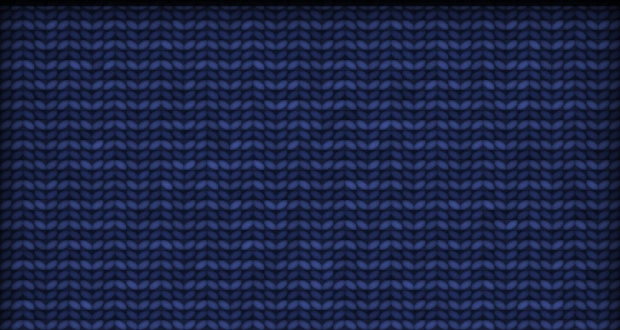
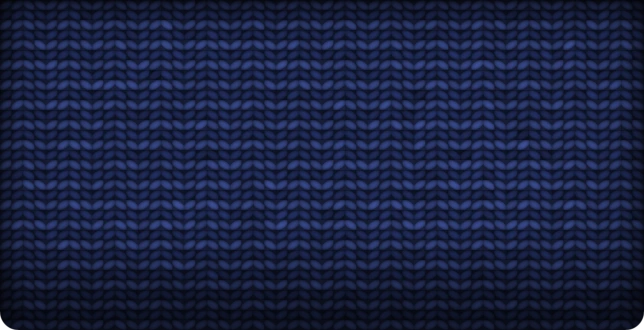
Second Chair: the band runs into a curved slot between the lugs; its free end rounded and fading
The lugs are now two posts with a straight slot floor between them, curving up
into each post; the band sits behind the case and disappears into the slot.

diff --git a/second-chair/assets/css/base.css b/second-chair/assets/css/base.css
@@ -355,12 +355,11 @@ ul, ol { margin: 0; padding: 0; }
 
 /* ---- Apple Watch Ultra 4: rendered case, band, watchOS Now Playing ---- */
 .watch { container-type: inline-size; position: relative; isolation: isolate; width: 100%; }
-/* The band: Alpine Loop in navy (_docs/devices/band.py), 27 mm wide between the case's horns. It runs down to the
-   case's rim (5.4 mm into the case frame, 11.51cqw) in front of the case, so the horns show either side of it; its
-   free end is cut straight across, as in Apple's product shots. */
-.watch-band { position: relative; z-index: 2; width: 57.6%; height: 30cqw; margin: 0 auto; background: center / 100% 100% no-repeat; }
-.watch-band--top { margin-bottom: -11.51cqw; background-image: url("../img/devices/watch-band-top.webp"); }
-.watch-band--bottom { margin-top: -11.51cqw; background-image: url("../img/devices/watch-band-bottom.webp"); }
+/* The band: Alpine Loop in navy (_docs/devices/band.py), 28 mm wide. It sits behind the case and runs into the slot
+   between the lugs' posts (whose floor is 3.65 mm into the case frame), ending 0.4 mm past it (4.05 mm, 8.64cqw). */
+.watch-band { position: relative; z-index: 0; width: 59.7%; height: 30cqw; margin: 0 auto; background: center / 100% 100% no-repeat; }
+.watch-band--top { margin-bottom: -8.64cqw; background-image: url("../img/devices/watch-band-top.webp"); }
+.watch-band--bottom { margin-top: -8.64cqw; background-image: url("../img/devices/watch-band-bottom.webp"); }
 /* Apple Watch Ultra 4, 49 mm, natural titanium: a pre-rendered case (assets/img/devices) from Apple's published
    dimensions and its front-on product photo, with the live screen in its transparent display window
    (32.88 x 40.05 mm in a 46.9 x 57.84 mm frame that includes the crown and the band lugs). */

diff --git a/second-chair/assets/css/home.css b/second-chair/assets/css/home.css
@@ -232,7 +232,7 @@ html:not(.js) .try { display: none; }
   position: absolute; right: 0; top: 0; width: 53cqw;
 }
 /* On the phone's left: between the Mac and the iPhone. */
-.ctl-watch { position: absolute; left: 11cqw; top: 42.57cqw; width: 32.6cqw; z-index: 3; }   /* the display stays where it was before the band and lugs changed */
+.ctl-watch { position: absolute; left: 11cqw; top: 41.64cqw; width: 32.6cqw; z-index: 3; }   /* the display stays where it was before the band and lugs changed */
 
 .np-scrub, .vol-track { position: relative; }
 .vol-track { flex: 1; }

diff --git a/second-chair/_docs/devices/watch.py b/second-chair/_docs/devices/watch.py
@@ -23,10 +23,11 @@ P = dict(
     # crown 0.69 mm proud of the guard, side button 26.4-36.0 and only 0.41 mm proud of it
     guard=(11.1, 37.3, 1.35), crown=(13.7, 22.6, 2.05), button=(26.4, 36.0, 1.76), action=(21.9, 35.2),
     # band lugs (horns), measured from Apple's front-on Alpine Loop photo at ~17.2 px/mm (body 41.7 mm = 718 px):
-    # 31.6 mm across, rising 3.5 mm above the body's top and below its bottom, corners r 2.0, flowing into the
-    # body's shoulders through a ~2.4 mm concave fillet. The band (27 mm) runs between them into a slot 0.75 mm
-    # above the body line; that slot and the band are drawn in the page (base.css), not here.
-    lug_w=31.6, lug_h=3.5, lug_r=2.0, lug_fillet=2.4,
+    # 31.6 mm across, rising 3.5 mm above the body's top and below its bottom: two posts either side of a 27 mm
+    # slot for the band, whose floor is a straight bridge 0.75 mm above the body line; outer corners r 2.0, inner
+    # corners r 0.9. Each post flows into the body (and the slot's floor) through a concave
+    # fillet: 2.4 mm on the shoulder outside, 1.2 mm inside, where the case's edge curves up to meet the band.
+    lug_w=31.6, lug_h=3.5, lug_r=2.0, lug_r_in=0.9, slot_w=27.0, lug_fillet=2.4, slot_fillet=1.2, slot_floor=0.75,
 )
 ENV = dict(front=0.717, front_pow=0.318, soft=0.173, soft_el=0.537, soft_w=0.343, below=0.47, side=0.265, back=0.153, lip_tilt=0.078, roll_R=1.509, groove=0.067,
            f0=(0.84, 0.75, 0.665), polish=1.22, brush=0.05, roll_h=1.5)   # fitted to Apple's photo (fit.py)
@@ -61,11 +62,22 @@ def render(scale=7.388, ss=3, margin=6.0, screen=None, e=None, out=None, shadow=
     yt = Y + P['body_h']/2; right = P['body_w']/2
     body = superrect(X, Y, P['body_w'], P['body_h'], P['body_a'], P['body_n']) <= 0
     # lugs: one rounded block across the top and bottom, merged into the shoulders with a concave fillet
-    lugs = superrect(X, Y, P['lug_w'], P['body_h'] + 2*P['lug_h'], P['lug_r'], 2.0) <= 0
-    kf = max(3, int(2*P['lug_fillet']*S)) | 1
-    # padded first, so the frame's edge doesn't erode the lugs' tops
-    padded = cv2.copyMakeBorder((body | lugs).astype(np.uint8), kf, kf, kf, kf, cv2.BORDER_CONSTANT, value=0)
-    body = cv2.morphologyEx(padded, cv2.MORPH_CLOSE, cv2.getStructuringElement(cv2.MORPH_ELLIPSE, (kf, kf)))[kf:-kf, kf:-kf].astype(bool)
+    pw = (P['lug_w'] - P['slot_w']) / 2                          # each post's width
+    ph = P['body_h'] + 2*P['lug_h']
+    def post(sign):                                              # a post, rounded r_out outside and r_in inside
+        cx = sign * (P['slot_w'] + pw) / 2
+        qx = X - cx; outer = (qx * sign) > 0
+        r = np.where(outer, P['lug_r'], P['lug_r_in'])
+        return superrect(qx, Y, pw, ph, r, 2.0) <= 0
+    # the slot's floor: a straight bridge between the posts, 0.75 mm proud of the body line, where the band goes in
+    bridge = (np.abs(X) < P['lug_w']/2 - 0.5) & (np.abs(Y) < P['body_h']/2 + P['slot_floor'])
+    lugs = post(-1) | post(1) | bridge
+    def close(m, mm):                                            # concave fillets; padded so the frame's edge can't hold anything out
+        k = max(3, int(2*mm*S)) | 1
+        pm = cv2.copyMakeBorder(m.astype(np.uint8), k, k, k, k, cv2.BORDER_CONSTANT, value=0)
+        return cv2.morphologyEx(pm, cv2.MORPH_CLOSE, cv2.getStructuringElement(cv2.MORPH_ELLIPSE, (k, k)))[k:-k, k:-k].astype(bool)
+    inside_slot = np.abs(X) < P['slot_w'] / 2
+    body = np.where(inside_slot, close(body | lugs, P['slot_fillet']), close(body | lugs, P['lug_fillet']))
     glass = superrect(X, Y, P['glass_w'], P['glass_h'], P['glass_a'], P['glass_n']) <= 0
     def part(y0, y1, prot, r):
         cy = (y0+y1)/2 - P['body_h']/2

diff --git a/second-chair/_docs/devices/band.py b/second-chair/_docs/devices/band.py
@@ -4,15 +4,16 @@ Alpine Loop is a two-layer textile knit from two yarns: seen front-on it's fine 
 alternately left and right in narrow columns (a chevron, or herringbone, texture), the rows alternating between the
 two yarn colours so the band reads as a speckled, heathered single colour. No edge stitching (that's Trail Loop).
 
-Size and placement (watch.py, base.css): 27 mm wide, between the case's horns; it runs down to the case's rim,
-where it disappears into the slot's shadow. The free end is cut straight across, as in Apple's product shots.
+Size and placement (watch.py, base.css): 28 mm wide, behind the case, so it disappears into the slot between the
+lugs' posts; its free end is cut across with slightly rounded corners and fades darker, as the band curves away
+around the wrist.
 
     python3 band.py    # writes ../../assets/img/devices/watch-band-top.webp and watch-band-bottom.webp
 """
 import numpy as np
 from PIL import Image
 
-W, H = 620, 330               # 27 x 14.4 mm (57.6% of the watch's width x 30cqw), ~23 px/mm
+W, H = 644, 330               # 28 x 14.4 mm (59.7% of the watch's width x 30cqw), ~23 px/mm
 SS = 3
 rng = np.random.default_rng(11)
 w, h = W * SS, H * SS
@@ -41,13 +42,22 @@ c = yarn * (1 + .07 * tone[..., None]) * (.5 + .7 * bump[..., None])   # dark ga
 edge = np.clip(np.minimum(u, 1 - u) / .035, 0, 1)
 c = c * (.55 + .45 * edge ** .7)[..., None] * (1 - .18 * (2 * u - 1) ** 6)[..., None]
 
-# Into the slot: the band darkens over its last ~1 mm and ends in a near-black line of shadow.
+# Into the slot: the band darkens over its last ~1.2 mm, most of it hidden behind the slot's floor.
 mm = h / 14.4
 d_slot = (h - ys) / mm                                      # mm from the slot end
-c = c * (1 - .75 * np.exp(-d_slot / .55))[..., None]
-c = np.where((d_slot < .28)[..., None], c * .25, c)
+c = c * (1 - .7 * np.exp(-d_slot / .6))[..., None]
 
-alpha = np.ones(xs.shape)
+# Towards its free end the band curves away around the wrist: a subtle fade to black over the last ~5 mm.
+d_free = ys / mm                                            # mm from the free end
+fade = np.clip(d_free / 5.0, 0, 1)
+c = c * (.45 + .55 * fade * fade * (3 - 2 * fade))[..., None]
+
+# The free end's corners are slightly rounded (r 0.8 mm).
+r = .8 * mm
+dx = np.maximum(np.maximum(r - xs, xs - (w - r)), 0)
+dy = np.maximum(r - ys, 0)
+alpha = np.clip(r - np.hypot(dx, dy) + .5 * SS, 0, SS) / SS
+alpha = np.where((dx > 0) & (dy > 0), alpha, 1.0)
 rgba = np.concatenate([np.clip(c, 0, 1), alpha[..., None]], -1)
 rgba = rgba.reshape(H, SS, W, SS, 4).mean(axis=(1, 3))
 img = Image.fromarray((rgba * 255 + .5).astype(np.uint8), 'RGBA')
